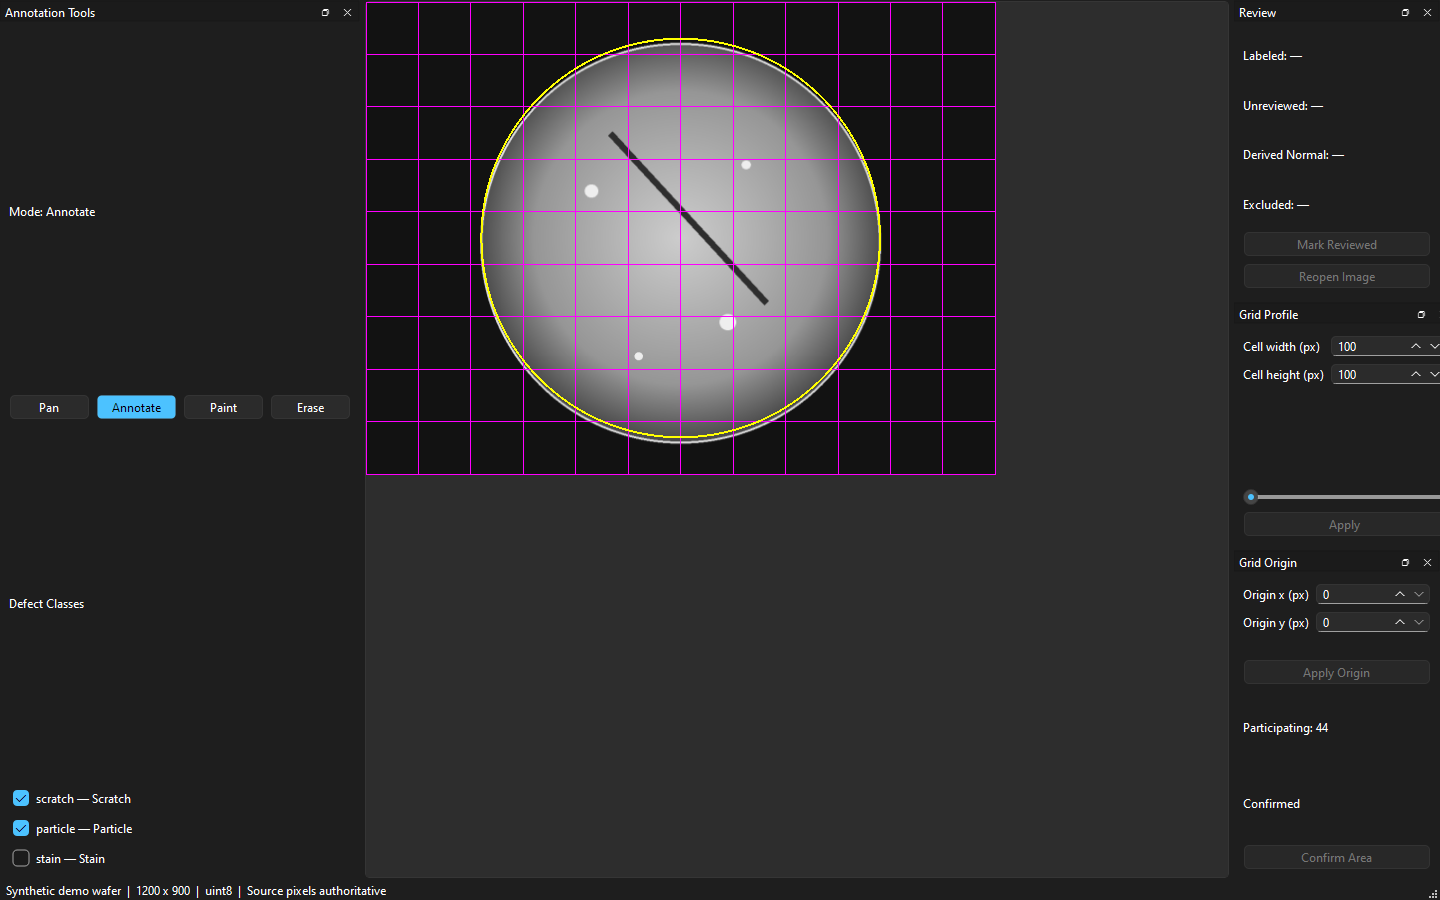
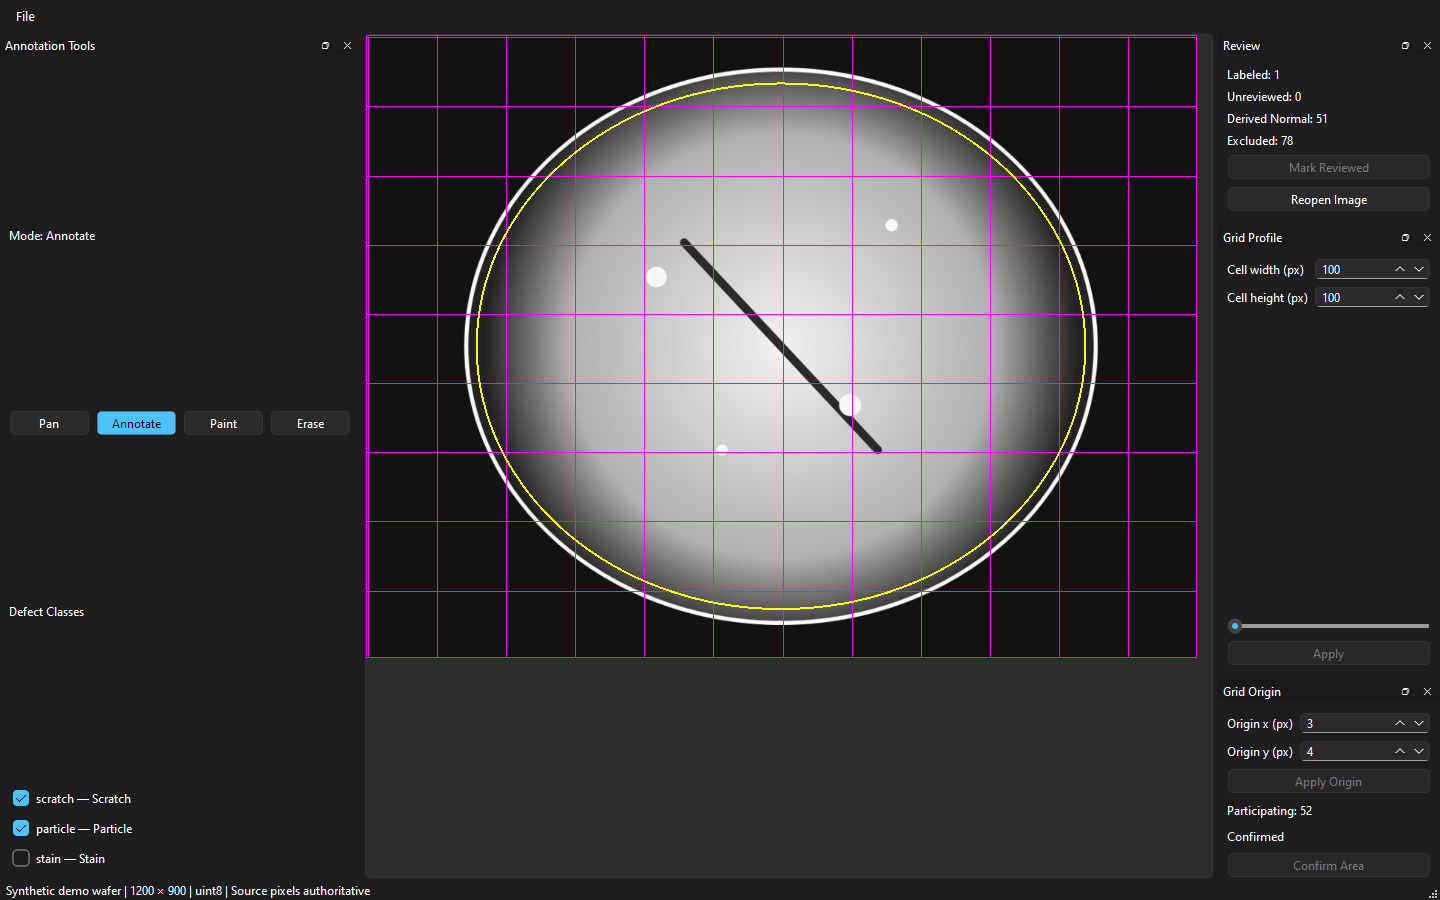
docs: refresh README UI screenshot

diff --git a/README.md b/README.md
@@ -2,7 +2,7 @@
 
 A Windows desktop MVP for source-pixel-aligned wafer grid classification. It keeps the original grayscale pixels authoritative while supporting multi-label review, reproducible training snapshots, model evaluation, approximate CAM localization, and result export.
 
-![Wafer Defect Studio showing a synthetic wafer, annotation grid, and review controls](docs/images/wafer-defect-studio-overview.png)
+![Current Wafer Defect Studio PySide6 editor showing a synthetic wafer, annotation grid, effective area, and review controls](docs/images/wafer-defect-studio-overview.png)
 
 > The screenshot is a real PySide6 Widgets render using a generated wafer image; it is not production inspection data.
 
